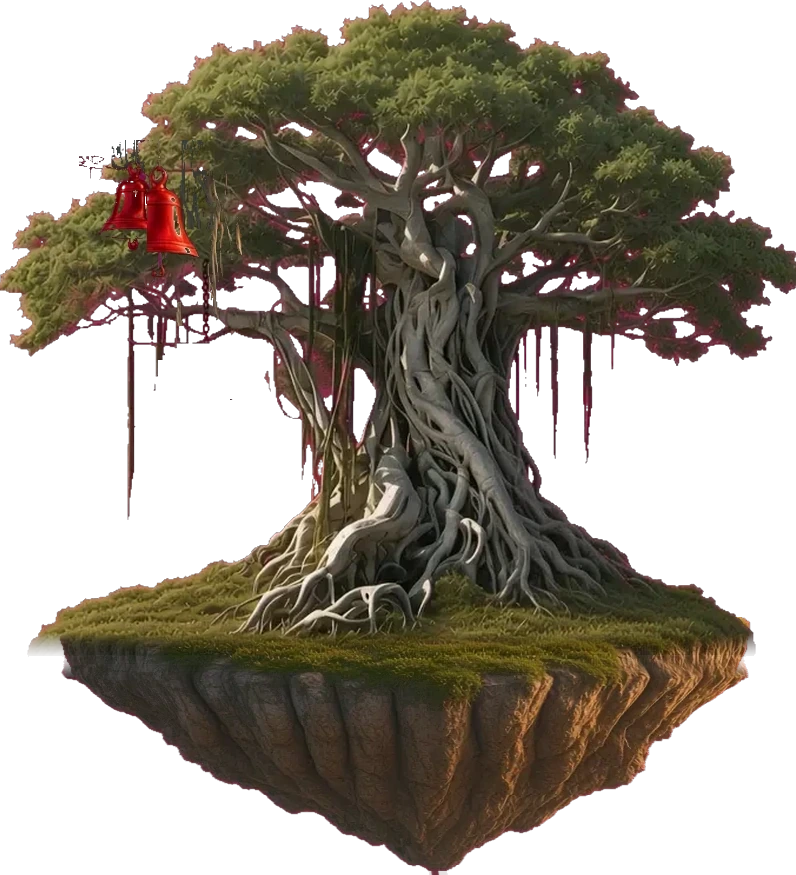
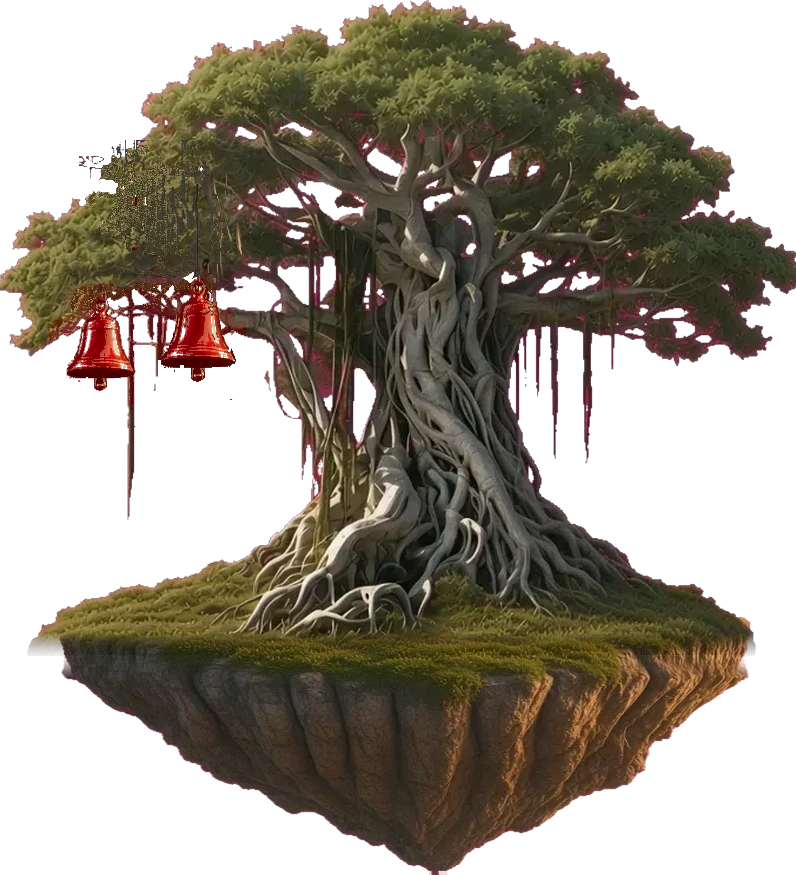
Hang the Unit 12 bells below the canopy.
The two red bells now hang in the open air under the leaves, using the hanging bells from the closed draft. The live island underside, colors, and lighting stay as they are, and the grass rim the bridges use is unchanged. Cache is ir-20261128k.

Changed region(s): [[0.0603, 0.1543, 0.3015, 0.4629]]

diff --git a/sw.js b/sw.js
@@ -1,7 +1,7 @@
 /* Island Readers sample service worker.
    Code (HTML/JS/CSS/data) is network-first so a new version always wins; the cache is only an offline fallback.
    Media (images/audio/video) is cache-first. Install never fails because of one file. */
-const CACHE = 'ir-20261128g';
+const CACHE = 'ir-20261128k';
 const ASSETS = [
  "./index.html",
  "./js/wordplay.js",
